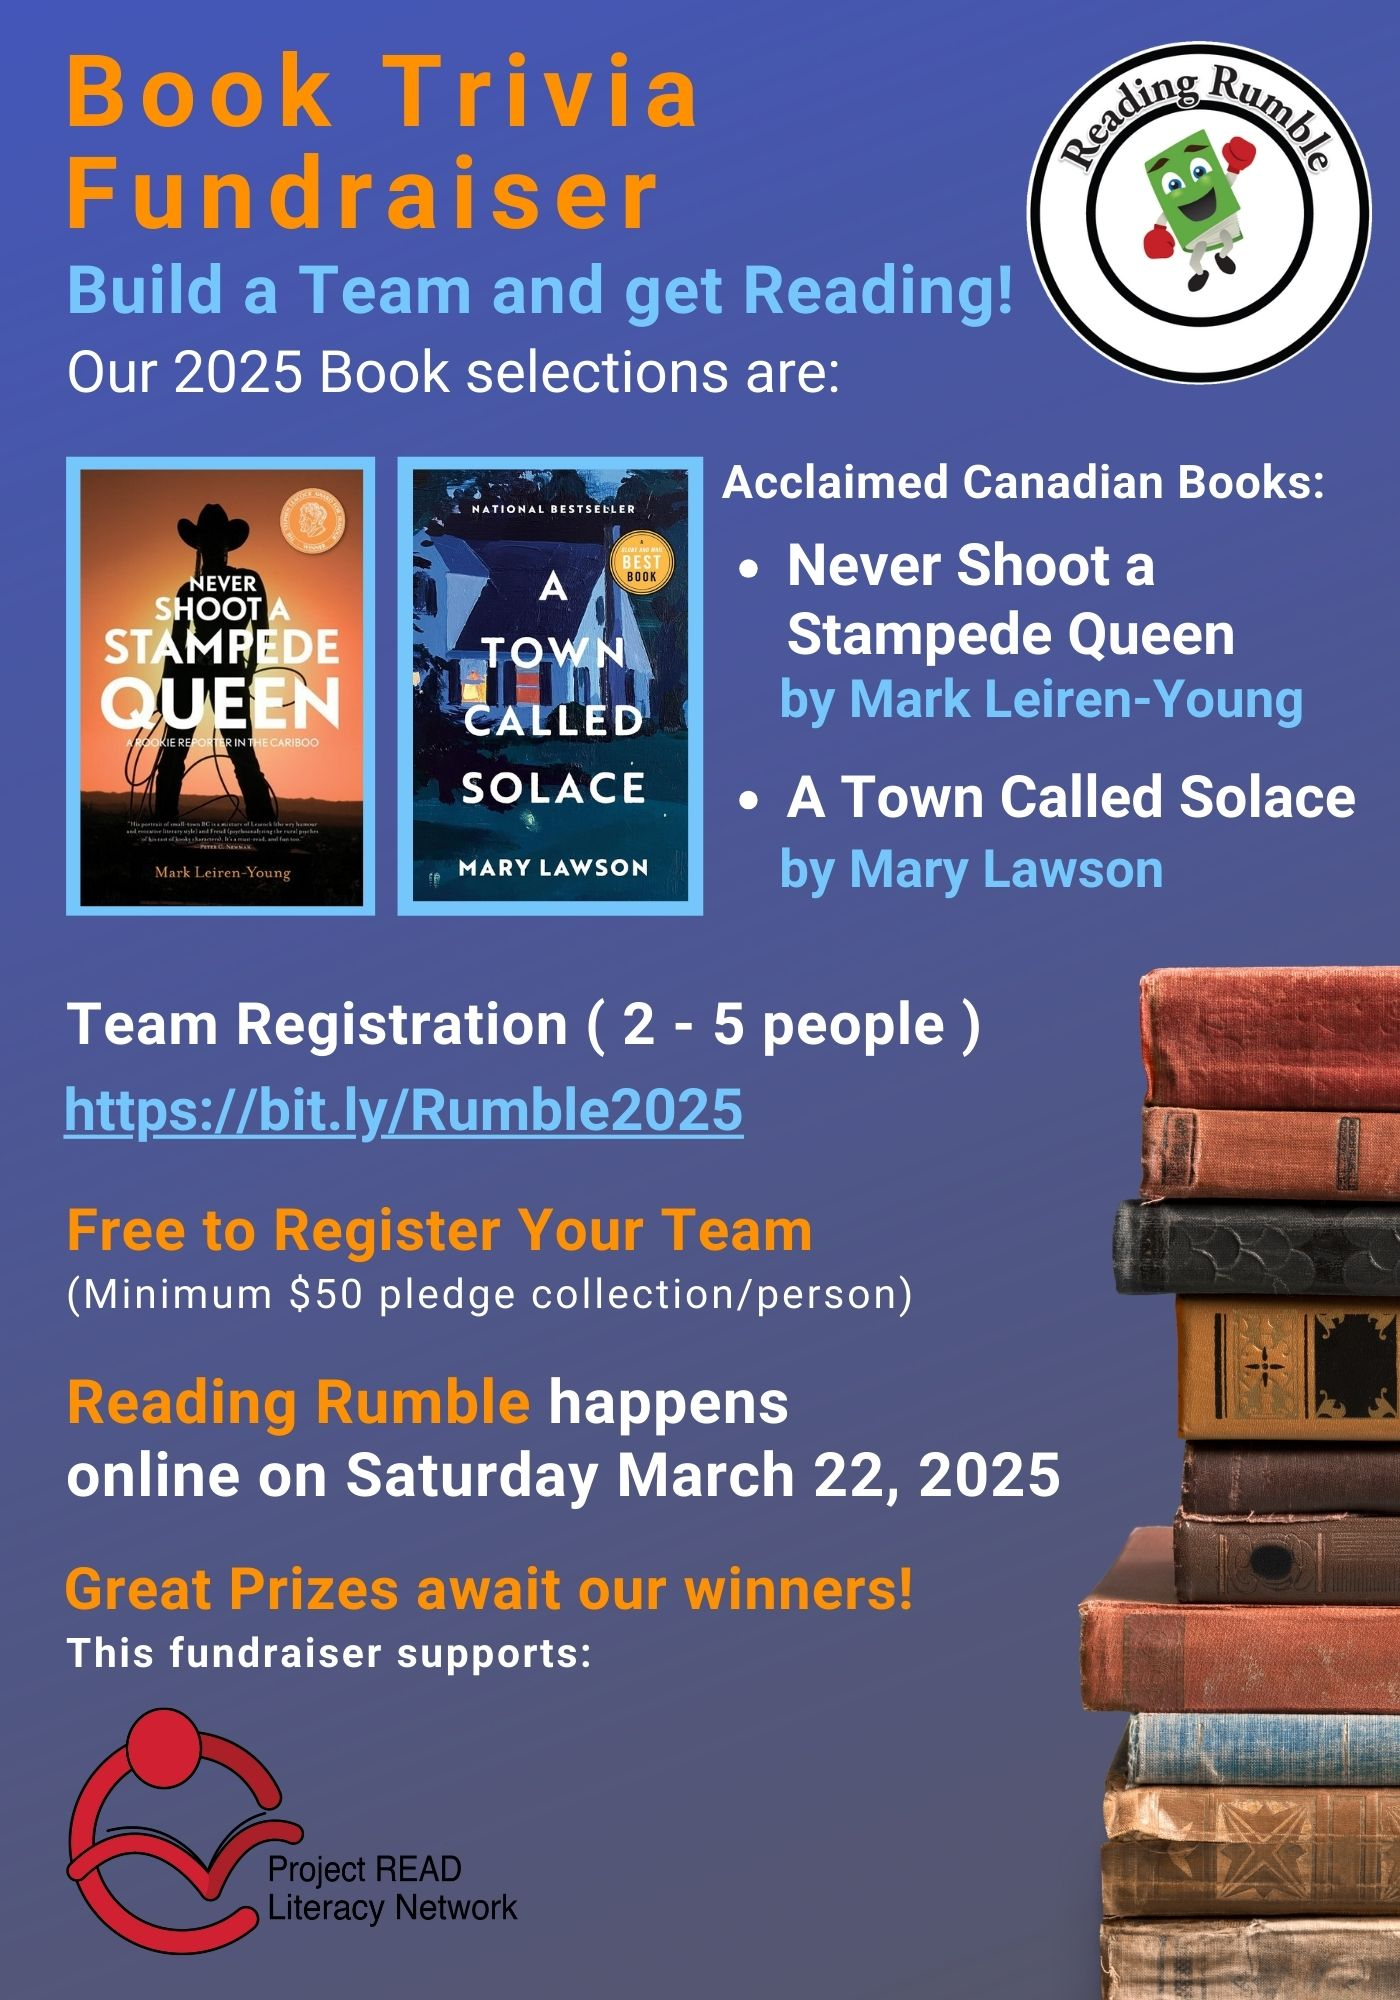
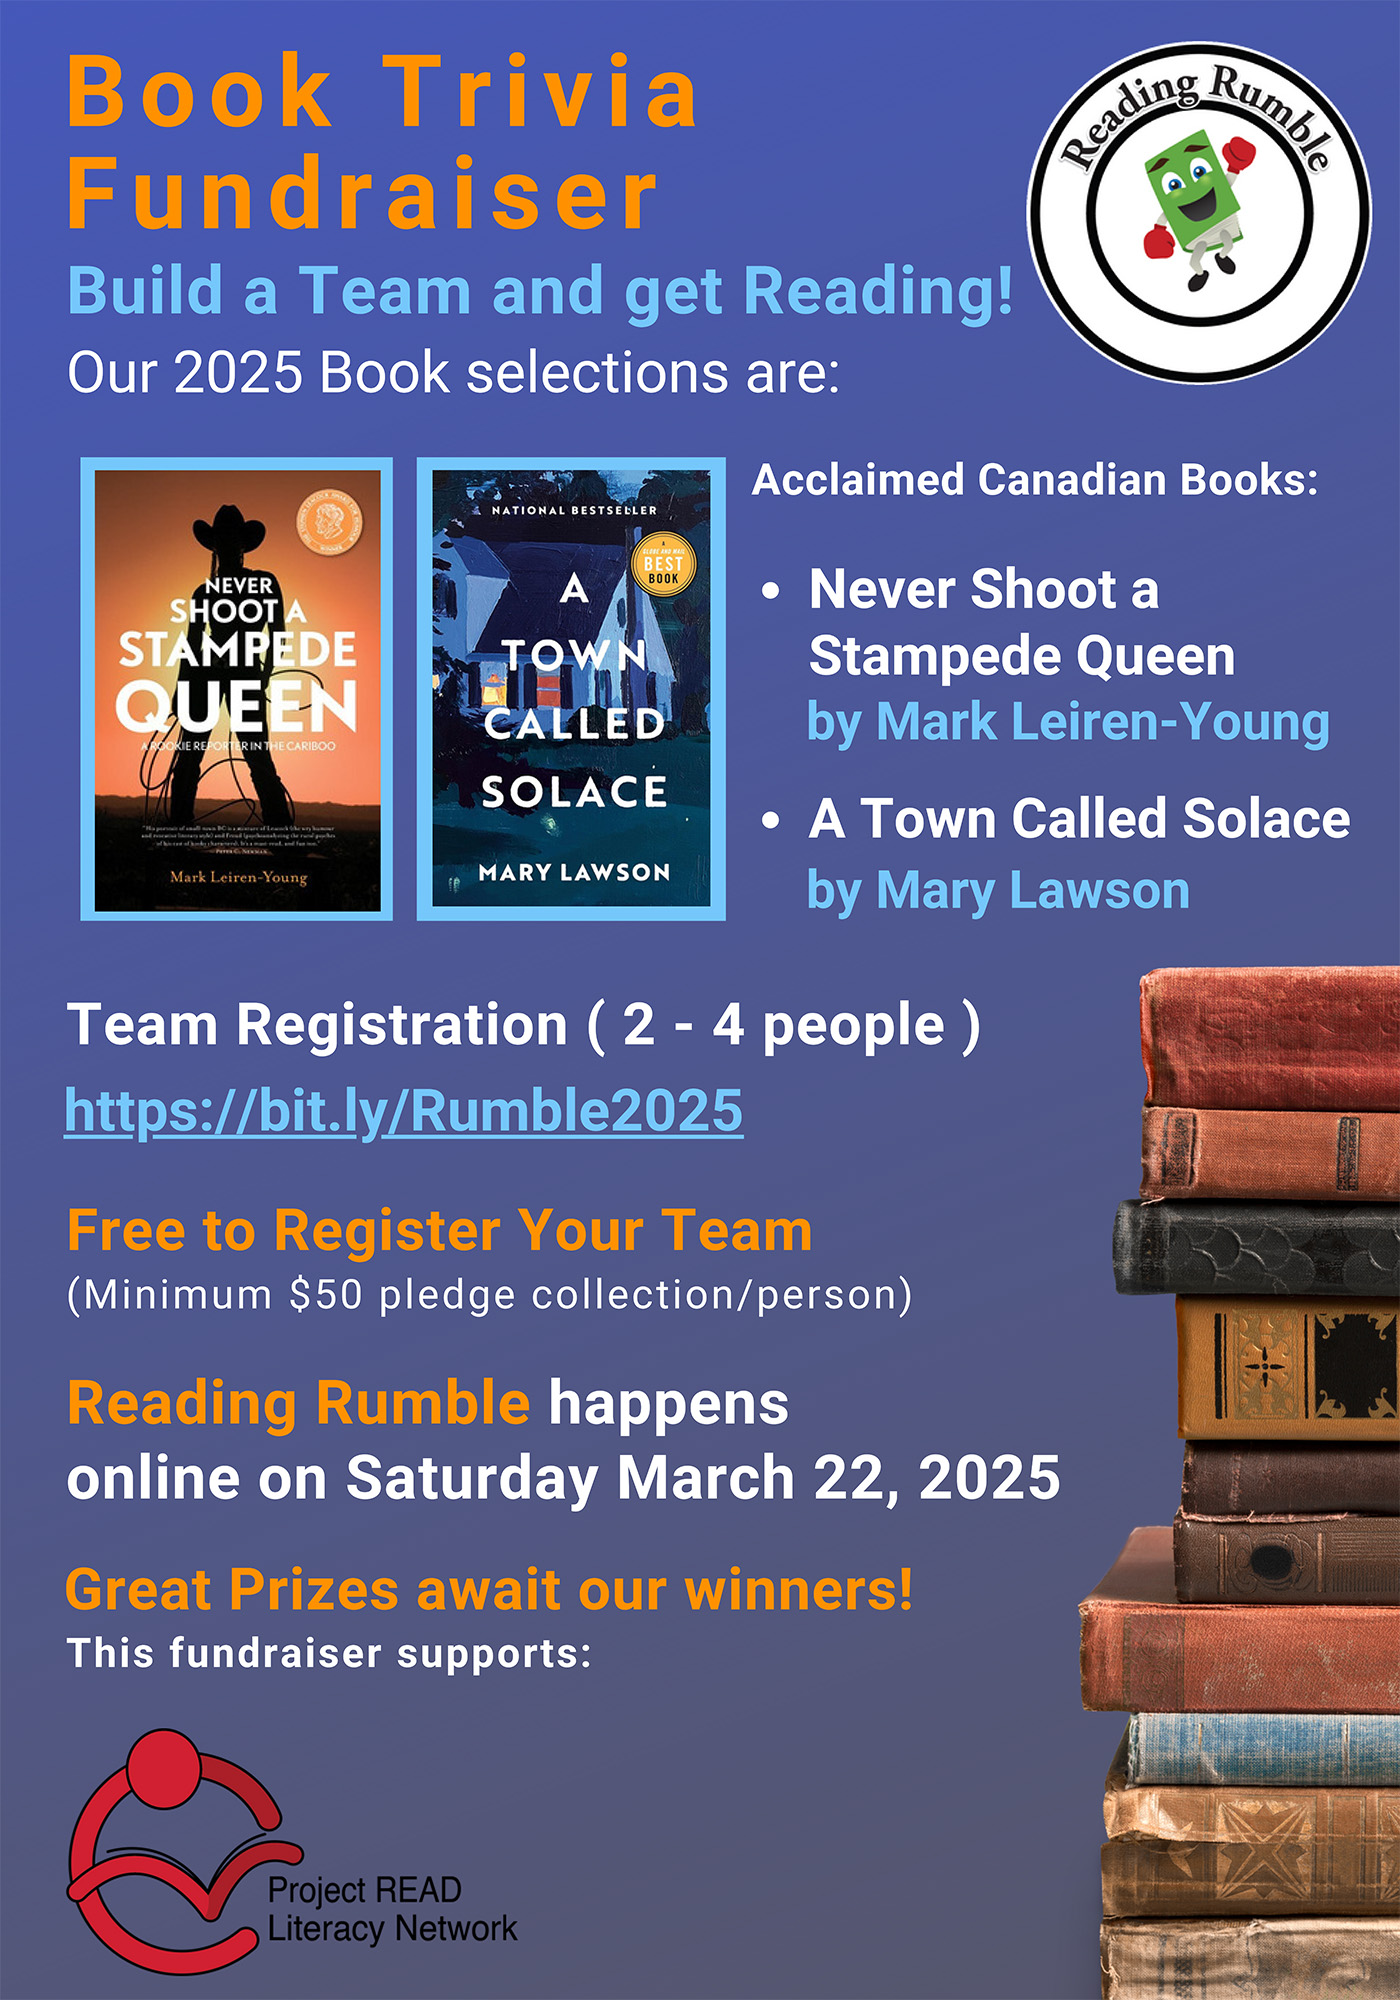
Fix how many on a team RR Project-READ-Literacy-Network/prln-website@cbcbffb25879966744d2b3e1c2a5157ae9c28456

diff --git a/about/events-and-awards/index.html b/about/events-and-awards/index.html
@@ -4,7 +4,7 @@
 <span title=youtube><a href=https://www.youtube.com/channel/UCXkRTQ0nz-8L2uiG9_FP5Ag><i class="fab fa-youtube fa-fw fa-lg nav-social mx-auto"></i><span class=sr-only>youtube</span></a></span>
 <span title=instagram><a href=https://www.instagram.com/projectreadlitnetwork/><i class="fab fa-instagram fa-fw fa-lg nav-social mx-auto"></i><span class=sr-only>instagram</span></a></span></div></ul></div><div class="d-none donate-btn d-lg-block pl-auto mx-auto mx-xl-4"><a class="btn btn-light ignore-color-change" href=https://www.canadahelps.org/en/dn/11623 role=button><i class="fas fa-heart mr-1 mr-xl-2 text-dark" display: inline-flex; align-items: center;></i>Donate</a></div></div></nav><div class="scroll-to-top bg-primary has-font-icon" title="Back to top"><i class="fas fa-angle-up"></i><span class=sr-only>Back to top</span></div><style>:root{--header-height: 130px}</style><header id=index class="fragment hero"><div style=min-height:50vh;background-image:url(/images/events-and-awards.jpg) class="row justify-content-center jumbotron text-center header-image mb-0 bg-light"><div id=index-particles-js class="hero-particles particles-js"></div><div class="hero-title-container col-12"><h1 class="hero-title overlay jumbotron-heading text-body">Events and Awards</h1></div><div class=hero-buttons><a class="overlay btn btn-lg m-2 btn-light" href=/about/events-and-awards/#prln-events><div class="column justify-content-center align-content-center">Project READ Events</div></a><a class="overlay btn btn-lg m-2 btn-light" href=/about/events-and-awards/#reading-rumble-events><div class="column justify-content-center align-content-center">Reading Rumble Events</div></a><a class="overlay btn btn-lg m-2 btn-light" href=/about/events-and-awards/#community-partnership-events><div class="column justify-content-center align-content-center">Community Partnership Events</div></a><a class="overlay btn btn-lg m-2 btn-light" href=/about/events-and-awards/#awards><div class="column justify-content-center align-content-center">Awards</div></a><a class="overlay btn btn-lg m-2 btn-light" href=/about/events-and-awards/#apply-for-an-award><div class="column justify-content-center align-content-center">Apply for an Award</div></a></div></div></header><script>var fragmentName="index";window.syna.api.register("hero","hero-"+fragmentName,{selector:"index-particles-js",config:null,});</script><section id=prln-events class=fragment><div class="container-fluid bg-light"><div class="container py-5"><div class="title-container row mx-0"><div class="title col px-0 text-center text-body"><h2>Project READ Events</h2></div></div><div class="row justify-content-center pt-4"><div class="col-lg-4 col-md-9 col-12 py-2"><div class="border fill-item rounded position-relative portfolio-item portfolio-item-white-bg overflow-hidden has-modal"><img src=/images/portrait-marathon-2020.jpg class="portfolio-image img-fluid" alt><div class="position-absolute hover-overlay"></div><div class="position-absolute text-light badge-container"><span class="badge badge-dark"><i class="fas fa-donate"></i><span>Fundraiser</span></span></div><div class="position-absolute description-container col"><div class="row flex-column justify-content-center description text-light p-2 rounded text-center"><h5 class=title>Portrait Marathon</h5><h6 class=subtitle>With your help we raised $485.00!</h6></div></div><div class="content hidden"><p>This was Project READ’s first ever online portrait marathon in support of Adult and Family Literacy in Waterloo-Wellington.</p><p><a href="https://www.youtube.com/watch?v=B1MYZjRWSfU">See all 17 portraits in just one minute</a></p></div></div></div><div class="col-lg-4 col-md-9 col-12 py-2"><div class="border fill-item rounded position-relative portfolio-item portfolio-item-white-bg overflow-hidden has-modal"><img src=/images/gsc-2018-logo.png class="portfolio-image img-fluid" alt><div class="position-absolute hover-overlay"></div><div class="position-absolute text-light badge-container"><span class="badge badge-dark"><i class="fas fa-pencil-ruler"></i><span>Makers</span>
 </span><span class="badge badge-dark"><i class="fas fa-donate"></i><span>Fundraiser</span></span></div><div class="position-absolute description-container col"><div class="row flex-column justify-content-center description text-light p-2 rounded text-center"><h5 class=title>Get Set Crop</h5><h6 class=subtitle>With your help we raised $3600.00!</h6></div></div><div class="content hidden"><p>This fundraising event helped to support literacy programs for families, children and adults in Waterloo Region and Guelph-Wellington. It was a great time getting together for some scrapbooking with old friends and making lots of new ones!</p></div></div></div></div></div></div></section><section id=reading-rumble-events class=fragment><div class="container-fluid bg-light"><div class="container py-5"><div class="title-container row mx-0"><div class="title col px-0 text-center text-body"><h2>Reading Rumble Events</h2></div></div><div class="row justify-content-center pt-4"><div class="col-lg-4 col-md-9 col-12 py-2"><div class="border fill-item rounded position-relative portfolio-item portfolio-item-white-bg overflow-hidden has-modal"><img src=/images/events/reading-rumble-2025.jpg class="portfolio-image img-fluid" alt><div class="position-absolute hover-overlay"></div><div class="position-absolute text-light badge-container"><span class="badge badge-dark"><i class="fas fa-book"></i><span>Reading</span>
-</span><span class="badge badge-dark"><i class="fas fa-donate"></i><span>Fundraiser</span></span></div><div class="position-absolute description-container col"><div class="row flex-column justify-content-center description text-light p-2 rounded text-center"><h5 class=title>Reading Rumble 2025</h5><h6 class=subtitle>Registration now open!</h6></div></div><div class="content hidden"><p>Reading Rumble is a book trivia fundraising event for teams to have fun & compete for prizes - all while supporting literacy in Waterloo-Wellington! It is a fun and energizing social event for everyone! The acclaimed Canadian books selected for Reading Rumble 2025 are &ldquo;Never Shoot a Stampede Queen&rdquo; by Mark Leiren-Young & &ldquo;A Town called Solace&rdquo; by Mary Lawson. <a href=https://bit.ly/Rumble2025>Register your team today (2 - 5 people)</a></p></div></div></div><div class="col-lg-4 col-md-9 col-12 py-2"><div class="border fill-item rounded position-relative portfolio-item portfolio-item-white-bg overflow-hidden has-modal"><img src=/images/events/reading-rumble-2024.jpg class="portfolio-image img-fluid" alt><div class="position-absolute hover-overlay"></div><div class="position-absolute text-light badge-container"><span class="badge badge-dark"><i class="fas fa-book"></i><span>Reading</span>
+</span><span class="badge badge-dark"><i class="fas fa-donate"></i><span>Fundraiser</span></span></div><div class="position-absolute description-container col"><div class="row flex-column justify-content-center description text-light p-2 rounded text-center"><h5 class=title>Reading Rumble 2025</h5><h6 class=subtitle>Registration now open!</h6></div></div><div class="content hidden"><p>Reading Rumble is a book trivia fundraising event for teams to have fun & compete for prizes - all while supporting literacy in Waterloo-Wellington! It is a fun and energizing social event for everyone! The acclaimed Canadian books selected for Reading Rumble 2025 are &ldquo;Never Shoot a Stampede Queen&rdquo; by Mark Leiren-Young & &ldquo;A Town called Solace&rdquo; by Mary Lawson.</p><p><a href=https://bit.ly/Rumble2025>Register your team today (2 - 4 people)</a></p><p><a href="https://drive.google.com/uc?export=download&id=1QZgsJ9hYpwwyuA_7p0s5EpVA1FyXy3Fw">Download Competitors Package</a></p></div></div></div><div class="col-lg-4 col-md-9 col-12 py-2"><div class="border fill-item rounded position-relative portfolio-item portfolio-item-white-bg overflow-hidden has-modal"><img src=/images/events/reading-rumble-2024.jpg class="portfolio-image img-fluid" alt><div class="position-absolute hover-overlay"></div><div class="position-absolute text-light badge-container"><span class="badge badge-dark"><i class="fas fa-book"></i><span>Reading</span>
 </span><span class="badge badge-dark"><i class="fas fa-donate"></i><span>Fundraiser</span></span></div><div class="position-absolute description-container col"><div class="row flex-column justify-content-center description text-light p-2 rounded text-center"><h5 class=title>Reading Rumble 2024</h5><h6 class=subtitle>With your help we raised $12,200.00</h6></div></div><div class="content hidden"><p>Reading Rumble is a book trivia fundraising event for teams to have fun & compete for prizes - all while supporting literacy in Waterloo-Wellington! It was a fun and energizing social event for everyone! Our 2024 acclaimed Canadian book selections were &ldquo;Everyone in This Room Will Someday Be Dead&rdquo; by Emily Austin & &ldquo;Under an Outlaw Moon&rdquo; by Dietrich Kalteis. Thank You to all of our participants and donors for making this year&rsquo;s Reading Rumble a successful and exciting event for everyone!</p></div></div></div><div class="col-lg-4 col-md-9 col-12 py-2"><div class="border fill-item rounded position-relative portfolio-item portfolio-item-white-bg overflow-hidden has-modal"><img src=/images/reading-rumble-2023.jpg class="portfolio-image img-fluid" alt><div class="position-absolute hover-overlay"></div><div class="position-absolute text-light badge-container"><span class="badge badge-dark"><i class="fas fa-book"></i><span>Reading</span>
 </span><span class="badge badge-dark"><i class="fas fa-donate"></i><span>Fundraiser</span></span></div><div class="position-absolute description-container col"><div class="row flex-column justify-content-center description text-light p-2 rounded text-center"><h5 class=title>Reading Rumble 2023</h5><h6 class=subtitle>With your help we raised $10,474.00!</h6></div></div><div class="content hidden"><p>Reading Rumble is a book trivia fundraising event for teams to have fun & compete for prizes - all while supporting literacy in Waterloo-Wellington! It was a fun and energizing social event for everyone! Our 2023 book selections were Canadian Award winners &ldquo;The Spirits Up&rdquo; by Todd Babiak & &ldquo;The Divine Ryans&rdquo; by Wayne Johnson. Thank You to all of our participants and donors for making this year&rsquo;s Reading Rumble a successful and exciting event for everyone!</p></div></div></div><div class="col-lg-4 col-md-9 col-12 py-2"><div class="border fill-item rounded position-relative portfolio-item portfolio-item-white-bg overflow-hidden has-modal"><img src=/images/reading-rumble-2022.png class="portfolio-image img-fluid" alt><div class="position-absolute hover-overlay"></div><div class="position-absolute text-light badge-container"><span class="badge badge-dark"><i class="fas fa-book"></i><span>Reading</span>
 </span><span class="badge badge-dark"><i class="fas fa-donate"></i><span>Fundraiser</span></span></div><div class="position-absolute description-container col"><div class="row flex-column justify-content-center description text-light p-2 rounded text-center"><h5 class=title>Reading Rumble 2022</h5><h6 class=subtitle>With your help we raised $9,990.00!</h6></div></div><div class="content hidden"><p>Reading Rumble is a book trivia fundraising event for teams to have fun & compete for prizes - all while supporting literacy in Waterloo-Wellington! It was a fun and energizing social event for everyone! Our 2022 book selections were Canadian Award winners &ldquo;Fight Night&rdquo; by Miriam Toews & &ldquo;Dirty Birds&rdquo; by Murray Morgan. Thank You to all of our participants and donors for making this year&rsquo;s Reading Rumble a successful and exciting event for everyone!</p></div></div></div><div class="col-lg-4 col-md-9 col-12 py-2"><div class="border fill-item rounded position-relative portfolio-item portfolio-item-white-bg overflow-hidden has-modal"><img src=/images/reading-rumble-logo.png class="portfolio-image img-fluid" alt><div class="position-absolute hover-overlay"></div><div class="position-absolute text-light badge-container"><span class="badge badge-dark"><i class="fas fa-book"></i><span>Reading</span>
